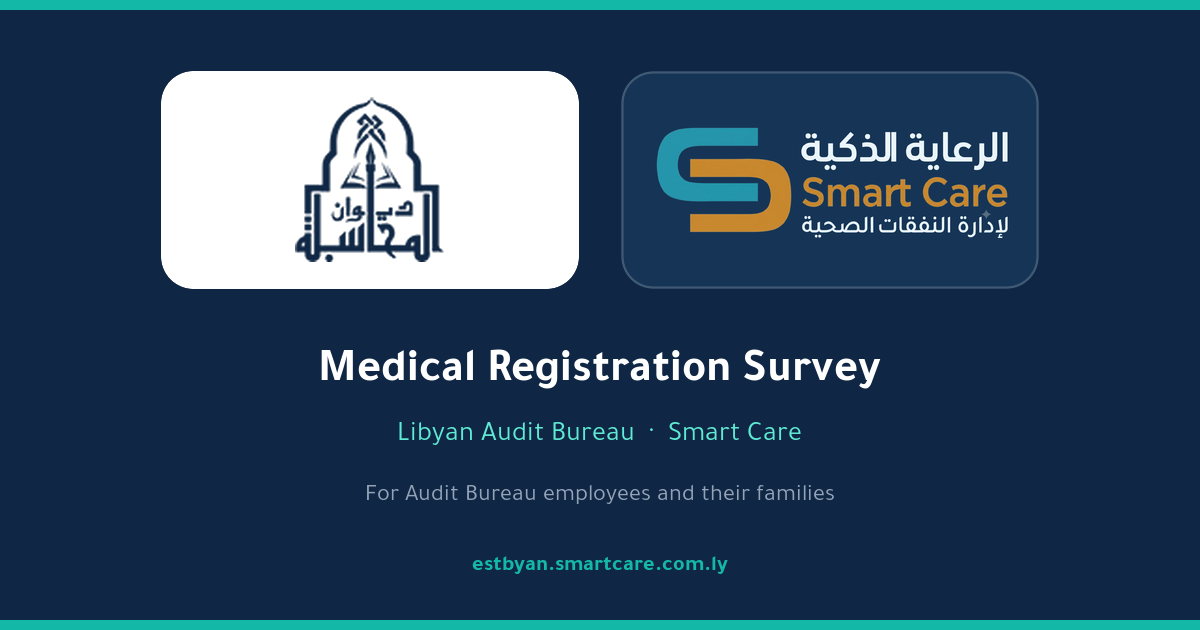
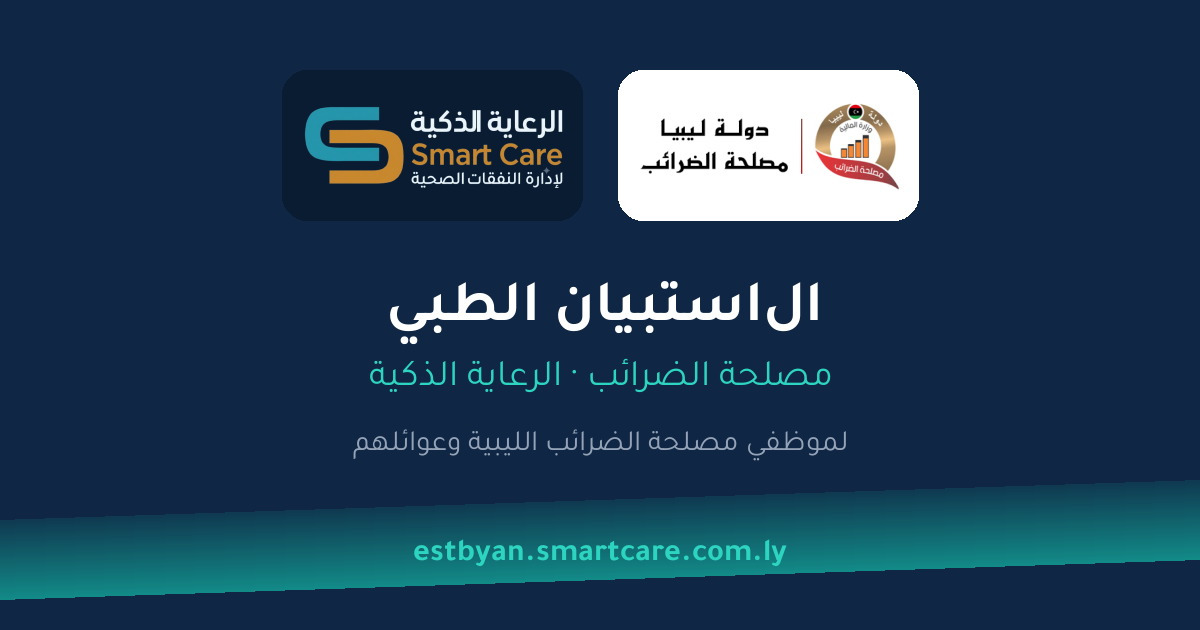
Replace leftover Audit Bureau OG image and Tax branding copy.
Refresh the share preview artwork, sidebar, footer, and reference-card filenames for مصلحة الضرائب.

diff --git a/resources/views/livewire/registration/partials/sidebar.blade.php b/resources/views/livewire/registration/partials/sidebar.blade.php
@@ -18,8 +18,8 @@
                 <svg class="size-6 text-white" fill="none" viewBox="0 0 24 24" stroke-width="2" stroke="currentColor"><path stroke-linecap="round" stroke-linejoin="round" d="M9 12.75 11.25 15 15 9.75m-3-7.036A11.959 11.959 0 0 1 3.598 6 11.99 11.99 0 0 0 3 9.749c0 5.592 3.824 10.29 9 11.623 5.176-1.332 9-6.03 9-11.622 0-1.31-.21-2.571-.598-3.751h-.152c-3.196 0-6.1-1.248-8.25-3.285Z"/></svg>
             </div>
             <div>
-                <p class="text-lg font-extrabold tracking-wide">SMART CARE</p>
-                <p class="text-xs text-slate-400">التسجيل الطبي للموظفين</p>
+                <p class="text-lg font-extrabold tracking-wide">مصلحة الضرائب</p>
+                <p class="text-xs text-slate-400">التسجيل الطبي · SMART CARE</p>
             </div>
         </div>
 

diff --git a/app/Filament/Resources/MedicalRegistrations/Pages/ViewMedicalRegistration.php b/app/Filament/Resources/MedicalRegistrations/Pages/ViewMedicalRegistration.php
@@ -126,7 +126,7 @@ class ViewMedicalRegistration extends ViewRecord
                 ->visible(fn (): bool => filled($this->record->reference_number))
                 ->action(function (ReferenceCardGenerator $generator): StreamedResponse {
                     $png = $generator->png($this->record);
-                    $filename = 'smart-care-'.$this->record->reference_number.'.png';
+                    $filename = 'tax-'.$this->record->reference_number.'.png';
 
                     return response()->streamDownload(
                         function () use ($png): void {

diff --git a/tests/Feature/ReferenceCardTest.php b/tests/Feature/ReferenceCardTest.php
@@ -55,5 +55,5 @@ it('downloads the redesigned reference card for a session registration', functio
         ->get(route('registration.reference-card', $registration))
         ->assertSuccessful()
         ->assertHeader('content-type', 'image/png')
-        ->assertHeader('content-disposition', 'attachment; filename="smart-care-SC26-00123.png"');
+        ->assertHeader('content-disposition', 'attachment; filename="tax-SC26-00123.png"');
 });

diff --git a/resources/views/livewire/medical-registration-form.blade.php b/resources/views/livewire/medical-registration-form.blade.php
@@ -46,7 +46,7 @@
                 </div>
 
                 <footer class="hidden px-10 pb-6 text-center text-xs text-slate-400 lg:block">
-                    <p>Smart Care Inc. · التسجيل الطبي للموظفين © {{ date('Y') }}</p>
+                    <p>مصلحة الضرائب · SMART CARE · التسجيل الطبي © {{ date('Y') }}</p>
                 </footer>
             </div>
         </div>

diff --git a/app/Http/Controllers/ReferenceCardController.php b/app/Http/Controllers/ReferenceCardController.php
@@ -21,7 +21,7 @@ class ReferenceCardController extends Controller
         abort_unless(filled($registration->reference_number), 404);
 
         $png = $generator->png($registration);
-        $filename = 'smart-care-'.$registration->reference_number.'.png';
+        $filename = 'tax-'.$registration->reference_number.'.png';
 
         return response($png, 200, [
             'Content-Type' => 'image/png',
